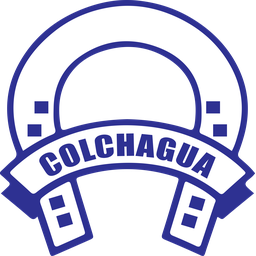
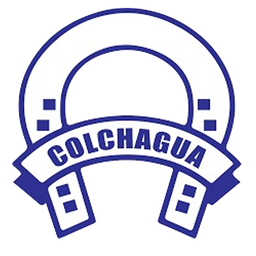
feat: reglas clasificación, planteles Sub-11/12, crédito Atlas sutil
- Footer Atlas sin enlace y casi invisible
- Nacional top-8; Sub-11/12 solo 1° de grupo (estilo distinto)
- Planteles Sub-11/12 Grupo 1 y 2; escudos optimizados
- Posiciones muestra reglas y badges de clasificación

diff --git a/public/css/styles.css b/public/css/styles.css
@@ -1065,15 +1065,55 @@ img[src*="/assets/escudos/"] {
   letter-spacing: .02em;
 }
 .footer-dev {
-  font-size: .78rem;
+  font-size: .68rem;
+  font-weight: 400;
+  letter-spacing: .04em;
   color: var(--muted);
+  opacity: 0.42;
+  pointer-events: none;
+  user-select: none;
 }
-.footer-dev a {
+
+/* Filas que clasifican (tablas) */
+.table-row--clasifica td {
+  background: rgba(235, 124, 43, 0.1);
+}
+.table-row--clasifica .col-pos,
+.badge-clasifica {
   color: var(--color-naranjo);
-  font-weight: 600;
-  text-decoration: none;
+  font-weight: 700;
 }
-.footer-dev a:hover { text-decoration: underline; }
+.badge-clasifica {
+  display: inline-block;
+  font-size: .68rem;
+  letter-spacing: .06em;
+  text-transform: uppercase;
+  padding: .15rem .45rem;
+  border-radius: 999px;
+  border: 1px solid rgba(235, 124, 43, 0.45);
+  background: rgba(235, 124, 43, 0.12);
+  margin-left: .35rem;
+  vertical-align: middle;
+}
+.table-row--lider-grupo td {
+  background: rgba(225, 6, 0, 0.08);
+  box-shadow: inset 3px 0 0 #e10600;
+}
+.table-row--lider-grupo .badge-clasifica {
+  color: #e10600;
+  border-color: rgba(225, 6, 0, 0.4);
+  background: rgba(225, 6, 0, 0.1);
+}
+.reglas-torneo {
+  font-size: .9rem;
+  color: var(--text-secondary);
+  margin: 0 0 1rem;
+  padding: .75rem 1rem;
+  border-radius: 12px;
+  border: 1px solid var(--border);
+  background: var(--card);
+}
+.reglas-torneo strong { color: var(--fg); }
 
 /* Social footer/mobile: centrados */
 .footer-social {

diff --git a/includes/helpers.php b/includes/helpers.php
@@ -114,7 +114,7 @@ function nav_divisiones(): array
 }
 
 /**
- * Planteles oficiales (Nacional 16 / Regional 25 / Infantil por grupos).
+ * Planteles y grupos oficiales (coordinación editorial).
  * @return array<string, mixed>
  */
 function planteles_oficiales(): array
@@ -145,7 +145,8 @@ function planteles_oficiales(): array
                 'Real San Joaquín', 'Provincial Osorno',
             ],
         ],
-        'infantil_grupos' => [
+        // Sub-13 y Sub-14
+        'infantil_sub13_14' => [
             'norte' => [
                 'Coquimbo Unido', 'Deportes Iquique', 'Deportes La Serena', 'Deportes Antofagasta',
                 'San Marcos', 'Deportes Copiapó',
@@ -165,7 +166,92 @@ function planteles_oficiales(): array
                 'Huachipato', 'Deportes Puerto Montt', 'Curicó Unido', 'Deportes Temuco', 'Ñublense',
             ],
         ],
+        // Sub-11 y Sub-12 — solo clasifica el 1° de cada grupo
+        'infantil_sub11_12' => [
+            'grupo_1' => [
+                'Universidad de Chile', 'Universidad Católica', 'Audax Italiano', 'Cobresal',
+                'Santiago Wanderers', 'Universidad San Sebastián', 'Atlético Colina', 'Unión La Calera',
+                'Captadores FC', 'San Luis', 'Trasandino', 'Everton', 'Deportes Recoleta',
+                'Real San Joaquín', 'Academia Antofagasta',
+            ],
+            'grupo_2' => [
+                'Colo-Colo', 'Unión Española', "O'Higgins", 'Palestino', 'Cobreloa', 'Colchagua',
+                'Santiago Morning', 'Magallanes', 'Santiago City', 'Fluminense Chile', 'Deportes Rengo',
+                'Sport Madrid', 'Diablos Rojos', 'Deportes Santa Cruz', 'Lautaro de Buin',
+            ],
+        ],
     ];
+}
+
+/** @deprecated usar infantil_sub13_14 */
+function planteles_infantil_sub13_14(): array
+{
+    return planteles_oficiales()['infantil_sub13_14'];
+}
+
+/**
+ * Reglas de clasificación por tipo de torneo.
+ * @return array{tipo:string,cupos:int,descripcion:string,estilo:string}
+ */
+function reglas_clasificacion(string $categoriaSlug): array
+{
+    // Nacional (4 categorías): top 8
+    if (in_array($categoriaSlug, ['sub-20', 'sub-18', 'sub-16', 'sub-15'], true)) {
+        return [
+            'tipo' => 'nacional',
+            'cupos' => 8,
+            'descripcion' => 'Clasifican los 8 primeros de la tabla (puestos 1° al 8°).',
+            'estilo' => 'clasifica', // naranja
+        ];
+    }
+    // Regional
+    if (str_contains($categoriaSlug, 'regional')) {
+        return [
+            'tipo' => 'regional',
+            'cupos' => 0,
+            'descripcion' => 'Campeonato Regional — Zona Centro Norte y Zona Centro Sur.',
+            'estilo' => 'clasifica',
+        ];
+    }
+    // Sub-11 / Sub-12: 1° de cada grupo
+    if (in_array($categoriaSlug, ['sub-11-infantil', 'sub-12-infantil'], true)) {
+        return [
+            'tipo' => 'infantil_11_12',
+            'cupos' => 1,
+            'descripcion' => 'Solo clasifica el 1° lugar de cada grupo (Grupo 1 y Grupo 2).',
+            'estilo' => 'lider-grupo', // rojo / distintivo
+        ];
+    }
+    // Sub-13 / Sub-14: grupos Norte / Centro 1 / Centro 2 / Sur
+    if (in_array($categoriaSlug, ['sub-13-infantil', 'sub-14-infantil'], true)) {
+        return [
+            'tipo' => 'infantil_13_14',
+            'cupos' => 0,
+            'descripcion' => 'Grupos: Norte, Centro 1, Centro 2 y Sur.',
+            'estilo' => 'clasifica',
+        ];
+    }
+    return [
+        'tipo' => 'otro',
+        'cupos' => 0,
+        'descripcion' => '',
+        'estilo' => 'clasifica',
+    ];
+}
+
+/**
+ * ¿La fila de tabla clasifica? (1-based position within its group/table).
+ */
+function fila_clasifica(string $categoriaSlug, int $posicion, ?string $grupo = null): bool
+{
+    $reglas = reglas_clasificacion($categoriaSlug);
+    if ($reglas['tipo'] === 'nacional') {
+        return $posicion >= 1 && $posicion <= 8;
+    }
+    if ($reglas['tipo'] === 'infantil_11_12') {
+        return $posicion === 1; // solo el líder del grupo
+    }
+    return false;
 }
 
 /** Categorías con tabla de goleadores (sin Sub-13 infantil). */

diff --git a/public/posiciones.php b/public/posiciones.php
@@ -5,15 +5,11 @@ require_once dirname(__DIR__) . '/includes/bootstrap.php';
 $cat = trim($_GET['categoria'] ?? 'sub-20') ?: 'sub-20';
 $filas = PosicionModel::porCategoria($cat);
 $torneo = $filas[0]['torneo'] ?? strtoupper($cat);
+$reglas = reglas_clasificacion($cat);
 
 $pageTitle = 'Posiciones ' . strtoupper($cat) . ' | ChilenosProyección';
 $metaDescription = 'Tabla de posiciones del fútbol joven chileno — ' . $torneo;
 $navActive = 'posiciones';
-
-$cats = array_merge(
-    array_map(static fn ($c) => $c['slug'], categorias_futbol_joven()),
-    ['sub-20-regional', 'sub-18-regional']
-);
 
 require INCLUDES_PATH . '/header.php';
 ?>
@@ -23,6 +19,11 @@ require INCLUDES_PATH . '/header.php';
       <h1>Posiciones</h1>
     </div>
     <p class="page-intro"><?= e($torneo) ?>. Orden: puntos, diferencia de goles y goles a favor.</p>
+    <?php if (($reglas['descripcion'] ?? '') !== ''): ?>
+      <p class="reglas-torneo" role="note">
+        <strong>Clasificación:</strong> <?= e($reglas['descripcion']) ?>
+      </p>
+    <?php endif; ?>
 
     <div class="cat-pills" role="navigation" aria-label="Categorías">
       <?php foreach (['sub-20' => 'Sub-20', 'sub-18' => 'Sub-18', 'sub-16' => 'Sub-16', 'sub-15' => 'Sub-15', 'sub-20-regional' => 'Sub-20 Reg.'] as $slug => $label): ?>
@@ -51,10 +52,19 @@ require INCLUDES_PATH . '/header.php';
             <?php
               $pos = $i + 1;
               $slugClub = $f['club_slug'] ?? null;
-              $esc = $f['escudo_url'] ?? ($slugClub ? '/assets/escudos/' . $slugClub . '.png' : null);
+              $esc = $f['escudo_url'] ?? ($slugClub ? club_escudo_url($slugClub) : null);
               $dg = (int) ($f['dg'] ?? ((int) ($f['gf'] ?? 0) - (int) ($f['gc'] ?? 0)));
+              $clasifica = fila_clasifica($cat, $pos);
+              $rowClass = [];
+              if ($clasifica && ($reglas['estilo'] ?? '') === 'lider-grupo') {
+                  $rowClass[] = 'table-row--lider-grupo';
+              } elseif ($clasifica) {
+                  $rowClass[] = 'table-row--clasifica';
+              } elseif ($pos <= 3) {
+                  $rowClass[] = 'row-top';
+              }
             ?>
-            <tr class="<?= $pos <= 3 ? 'row-top' : '' ?>">
+            <tr class="<?= e(implode(' ', $rowClass)) ?>">
               <td class="col-pos"><span class="pos-badge"><?= $pos ?></span></td>
               <td>
                 <div class="club-cell">
@@ -65,6 +75,9 @@ require INCLUDES_PATH . '/header.php';
                     <a href="<?= e(app_url('/club/' . $slugClub)) ?>"><?= e($f['club'] ?? '') ?></a>
                   <?php else: ?>
                     <?= e($f['club'] ?? '') ?>
+                  <?php endif; ?>
+                  <?php if ($clasifica): ?>
+                    <span class="badge-clasifica"><?= ($reglas['estilo'] ?? '') === 'lider-grupo' ? '1° grupo' : 'Clasifica' ?></span>
                   <?php endif; ?>
                 </div>
               </td>

diff --git a/includes/footer.php b/includes/footer.php
@@ -67,7 +67,7 @@
     <div class="container footer-bottom">
       <div class="footer-bottom-inner">
         <span class="footer-copy">© <?= date('Y') ?> Futbolistas Chilenos · Chile</span>
-        <span class="footer-dev">Desarrollado por <a href="https://atlastecnologic.cl" target="_blank" rel="noopener noreferrer">Atlas Tecnologic</a></span>
+        <span class="footer-dev">Desarrollado por Atlas Tecnologic</span>
       </div>
     </div>
   </footer>

diff --git a/docs/planteles-oficiales.md b/docs/planteles-oficiales.md
@@ -1,25 +1,33 @@
-# Planteles oficiales — Fútbol joven
+# Planteles y reglas de clasificación
 
-Fuente: coordinación editorial (WhatsApp 2026-08-03). Código: `planteles_oficiales()` en `includes/helpers.php`.
+Fuente: coordinación editorial (WhatsApp). Código: `planteles_oficiales()`, `reglas_clasificacion()`, `fila_clasifica()`.
 
-## Campeonato Nacional (16)
-Sub-20 · Sub-18 · Sub-16 · Sub-15
+## Campeonato Nacional (16 equipos) — Sub-20 · Sub-18 · Sub-16 · Sub-15
 
-Deportes Iquique, Cobreloa, Coquimbo Unido, Everton, Santiago Wanderers, Palestino, Audax Italiano, Unión Española, Colo-Colo, Universidad de Chile, Universidad Católica, Deportes Recoleta, O'Higgins, Huachipato, Universidad de Concepción, Deportes Temuco.
+**Clasifican los 8 primeros** de la tabla (1° al 8°). UI: fila naranja + badge “Clasifica”.
 
-## Campeonato Regional (25)
-Sub-20 · Sub-18 · Sub-16 · Sub-15
+Equipos: Deportes Iquique, Cobreloa, Coquimbo Unido, Everton, Santiago Wanderers, Palestino, Audax Italiano, Unión Española, Colo-Colo, Universidad de Chile, Universidad Católica, Deportes Recoleta, O'Higgins, Huachipato, Universidad de Concepción, Deportes Temuco.
 
-**Centro Norte (13):** Unión La Calera, Deportes La Serena, Deportes Antofagasta, San Marcos, Cobresal, San Luis, Atlético Colina, Santiago Morning, Unión San Felipe, Deportes Limache, Deportes Copiapó, Trasandino, Santiago City.
+## Campeonato Regional (25) — Sub-20 · Sub-18 · Sub-16 · Sub-15
 
-**Centro Sur (12):** Rangers, Magallanes, Deportes Puerto Montt, Ñublense, Deportes Concepción, Curicó Unido, Deportes Santa Cruz, Colchagua, Deportes Linares, Deportes Rengo, Real San Joaquín, Provincial Osorno.
+**Zona Centro Norte (13):** Unión La Calera, Deportes La Serena, Deportes Antofagasta, San Marcos, Cobresal, San Luis, Atlético Colina, Santiago Morning, Unión San Felipe, Deportes Limache, Deportes Copiapó, Trasandino, Santiago City.
 
-Lista completa regional (25): Deportes Antofagasta, Cobresal, San Marcos, Deportes Copiapó, Deportes La Serena, Trasandino, Unión San Felipe, San Luis, Unión La Calera, Magallanes, Colchagua, Deportes Santa Cruz, Santiago Morning, Santiago City, Deportes Rengo, Real San Joaquín, Curicó Unido, Rangers, Provincial Osorno, Deportes Concepción, Ñublense, Atlético Colina, Deportes Limache, Deportes Puerto Montt, Deportes Linares.
+**Zona Centro Sur (12):** Rangers, Magallanes, Deportes Puerto Montt, Ñublense, Deportes Concepción, Curicó Unido, Deportes Santa Cruz, Colchagua, Deportes Linares, Deportes Rengo, Real San Joaquín, Provincial Osorno.
 
 ## Campeonato Infantil
-Categorías menú: Sub-14 · Sub-13 · Sub-12 · Sub-11  
-Goleadores: **sin Sub-13** (solo Sub-14, Sub-12, Sub-11 entre infantiles).
 
-Grupos Sub-13/Sub-14: Norte, Centro 1, Centro 2, Sur (ver `planteles_oficiales()['infantil_grupos']`).
+### Sub-13 y Sub-14 — 4 grupos
+Norte · Centro 1 · Centro 2 · Sur (listas en `infantil_sub13_14`).
 
-Escudos: `public/assets/escudos/*.png` (optimizados desde WhatSie).
+### Sub-11 y Sub-12 — Grupo 1 y Grupo 2
+**Solo clasifica el 1° de cada grupo.** UI: fila con acento rojo + badge “1° grupo”.
+
+**Grupo 1 (15):** Universidad de Chile, Universidad Católica, Audax Italiano, Cobresal, Santiago Wanderers, Universidad San Sebastián, Atlético Colina, Unión La Calera, Captadores FC, San Luis, Trasandino, Everton, Deportes Recoleta, Real San Joaquín, Academia Antofagasta.
+
+**Grupo 2 (15):** Colo-Colo, Unión Española, O'Higgins, Palestino, Cobreloa, Colchagua, Santiago Morning, Magallanes, Santiago City, Fluminense Chile, Deportes Rengo, Sport Madrid, Diablos Rojos, Deportes Santa Cruz, Lautaro de Buin.
+
+### Goleadores
+Sin categoría Sub-13 infantil en goleadores.
+
+## Escudos
+`public/assets/escudos/*.png` optimizados 256×256 (incl. Sub-11/12 nuevos).
